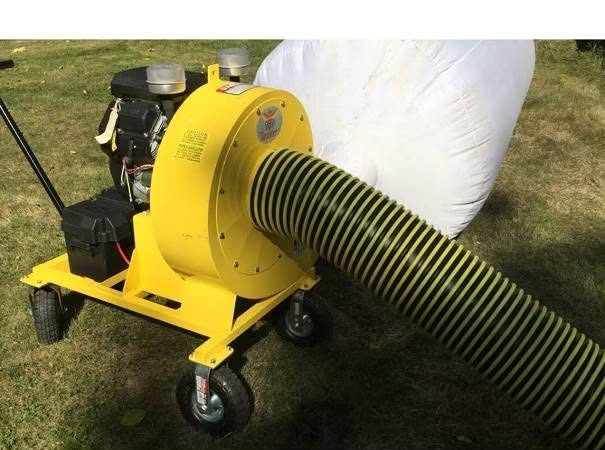
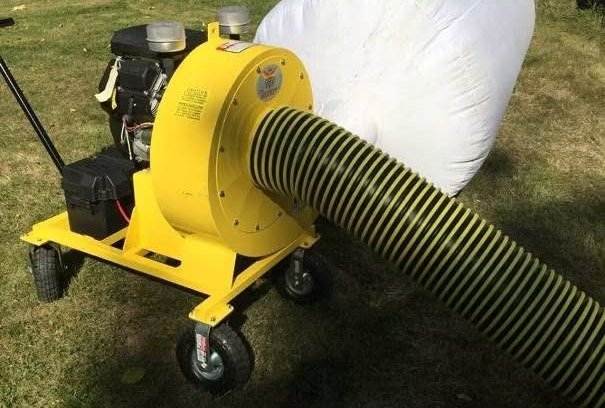
Air Flow Pros: fix rating stamp fit and services layout

diff --git a/air-flow-pros/index.html b/air-flow-pros/index.html
@@ -72,9 +72,9 @@ header.top .wrap{display:flex;justify-content:space-between;align-items:center;g
 .proof img{display:block;width:100%;height:auto;border-radius:3px}
 .proof figcaption{display:flex;justify-content:space-between;gap:10px;font:700 14px var(--display);padding:10px 4px 0}
 .proof figcaption span:first-child{color:var(--primary)}
-.stamp{position:absolute;left:-18px;bottom:-24px;background:var(--accent);color:var(--ink);font:900 15px/1.1 var(--display);border-radius:50%;width:124px;height:124px;display:grid;place-items:center;text-align:center;transform:rotate(-10deg);box-shadow:0 8px 20px -10px rgba(0,0,0,.4);text-decoration:none;padding:12px}
-.stamp .n{font-size:30px;display:block;letter-spacing:-.02em}
-@media(max-width:900px){.hero{grid-template-columns:1fr}.proof figcaption{padding-right:112px;flex-wrap:wrap;font-size:13px}.proof figcaption span:last-child{display:none}.stamp{left:auto;right:4px;bottom:-30px;width:108px;height:108px;font-size:13px}.stamp .n{font-size:26px}}
+.stamp{position:absolute;left:-18px;bottom:-24px;background:var(--accent);color:var(--ink);font:800 13px/1.15 var(--display);border-radius:50%;width:132px;height:132px;display:grid;place-items:center;text-align:center;transform:rotate(-10deg);box-shadow:0 8px 20px -10px rgba(0,0,0,.4);text-decoration:none;padding:12px}
+.stamp .n{font:900 36px/1 var(--display);display:block;letter-spacing:-.02em;margin:1px 0 2px}.stamp small{display:block;font:700 10.5px/1.2 var(--display);letter-spacing:.02em}
+@media(max-width:900px){.hero{grid-template-columns:1fr}.proof figcaption{padding-right:112px;flex-wrap:wrap;font-size:13px}.proof figcaption span:last-child{display:none}.stamp{left:auto;right:4px;bottom:-30px;width:112px;height:112px;font-size:12px}.stamp .n{font-size:30px}.stamp small{font-size:9.5px}}
 
 /* TICKER */
 .ticker{background:var(--primary);color:#fff;overflow:hidden;padding:14px 0;border-block:3px solid var(--ink)}
@@ -90,15 +90,15 @@ section{scroll-margin-top:70px}
 .sec{padding-top:clamp(52px,7vw,96px);padding-bottom:clamp(52px,7vw,96px)}
 h2{font:900 clamp(34px,4.6vw,60px)/1 var(--display);letter-spacing:-.03em;margin:0 0 10px}
 .sec-lede{color:var(--muted);margin:0 0 34px;max-width:60ch}
-.svcgrid{display:grid;grid-template-columns:1.3fr 1fr 1fr;gap:20px}
-.svcgrid article{background:var(--surface);border:1px solid var(--line);border-radius:10px;padding:26px;display:flex;flex-direction:column}
+.svcgrid{display:grid;grid-template-columns:1.25fr 1fr;gap:20px}
+.svcgrid article{background:var(--surface);border:1px solid var(--line);border-radius:10px;padding:30px;display:flex;flex-direction:column;justify-content:center}
 .svcgrid article.big{grid-row:span 2;padding:0;overflow:hidden}
-.svcgrid article.big img{width:100%;aspect-ratio:4/3;object-fit:cover;display:block}
+.svcgrid article.big img{width:100%;aspect-ratio:3/2;object-fit:cover;object-position:50% 60%;display:block}
 .svcgrid article.big div{padding:26px}
-.svcgrid h3{font:700 25px/1.1 var(--display);margin:0 0 10px;color:var(--primary)}
+.svcgrid h3{font:700 clamp(23px,2.2vw,30px)/1.1 var(--display);margin:0 0 10px;color:var(--primary)}
 .svcgrid p{margin:0}
 .svcgrid ul{margin:14px 0 0;padding-left:20px}
-.svcgrid .tag{margin-top:auto;padding-top:16px;font:700 13px var(--display);letter-spacing:.08em;text-transform:uppercase;color:var(--muted)}
+.svcgrid .tag{padding-top:18px;font:700 13px var(--display);letter-spacing:.08em;text-transform:uppercase;color:var(--muted)}
 .svcgrid article.dark{background:var(--ink);color:#F6F1E7;border:0}
 .svcgrid article.dark h3{color:var(--accent)}.svcgrid article.dark .tag{color:#CFC6B8}
 @media(max-width:900px){.svcgrid{grid-template-columns:1fr}.svcgrid article.big{grid-row:auto}}
@@ -208,7 +208,7 @@ footer a{color:#F6F1E7}
       <img src="img/filters.jpg" alt="A furnace filter caked gray with dust and torn, next to a clean new white filter" width="1440" height="810" fetchpriority="high">
       <figcaption><span>Before</span><span>Dirty filter vs. clean filter</span><span>After</span></figcaption>
     </figure>
-    <a class="stamp" href="https://www.homeadvisor.com/rated.airflowpros.158941863.html" aria-label="5.0 stars from 24 reviews on HomeAdvisor"><span>5.0 ★<span class="n" id="count">24</span>reviews on HomeAdvisor</span></a>
+    <a class="stamp" href="https://www.homeadvisor.com/rated.airflowpros.158941863.html" aria-label="5.0 stars from 24 reviews on HomeAdvisor"><span>5.0 ★<span class="n" id="count">24</span>reviews<small>on HomeAdvisor</small></span></a>
   </div>
 </section>
 
@@ -221,7 +221,7 @@ footer a{color:#F6F1E7}
   <p class="sec-lede">Homes and commercial spaces. Estimates are free, and reviewers keep pointing out that the price he quotes on the phone is the price on the bill.</p>
   <div class="svcgrid">
     <article class="big">
-      <img src="img/power-vac.jpg" alt="Air Flow Pros' yellow Hornet power vacuum with its striped hose, set up on a lawn" width="605" height="450" loading="lazy">
+      <img src="img/power-vac.jpg" alt="Air Flow Pros' yellow Hornet power vacuum with its striped hose, set up on a lawn" width="605" height="408" loading="lazy">
       <div><h3>Furnace &amp; air duct cleaning</h3><p>The whole system, not just the grilles you can reach:</p>
         <ul><li>Supply and return ducts</li><li>Registers and return grilles</li><li>The furnace itself</li></ul></div>
     </article>
